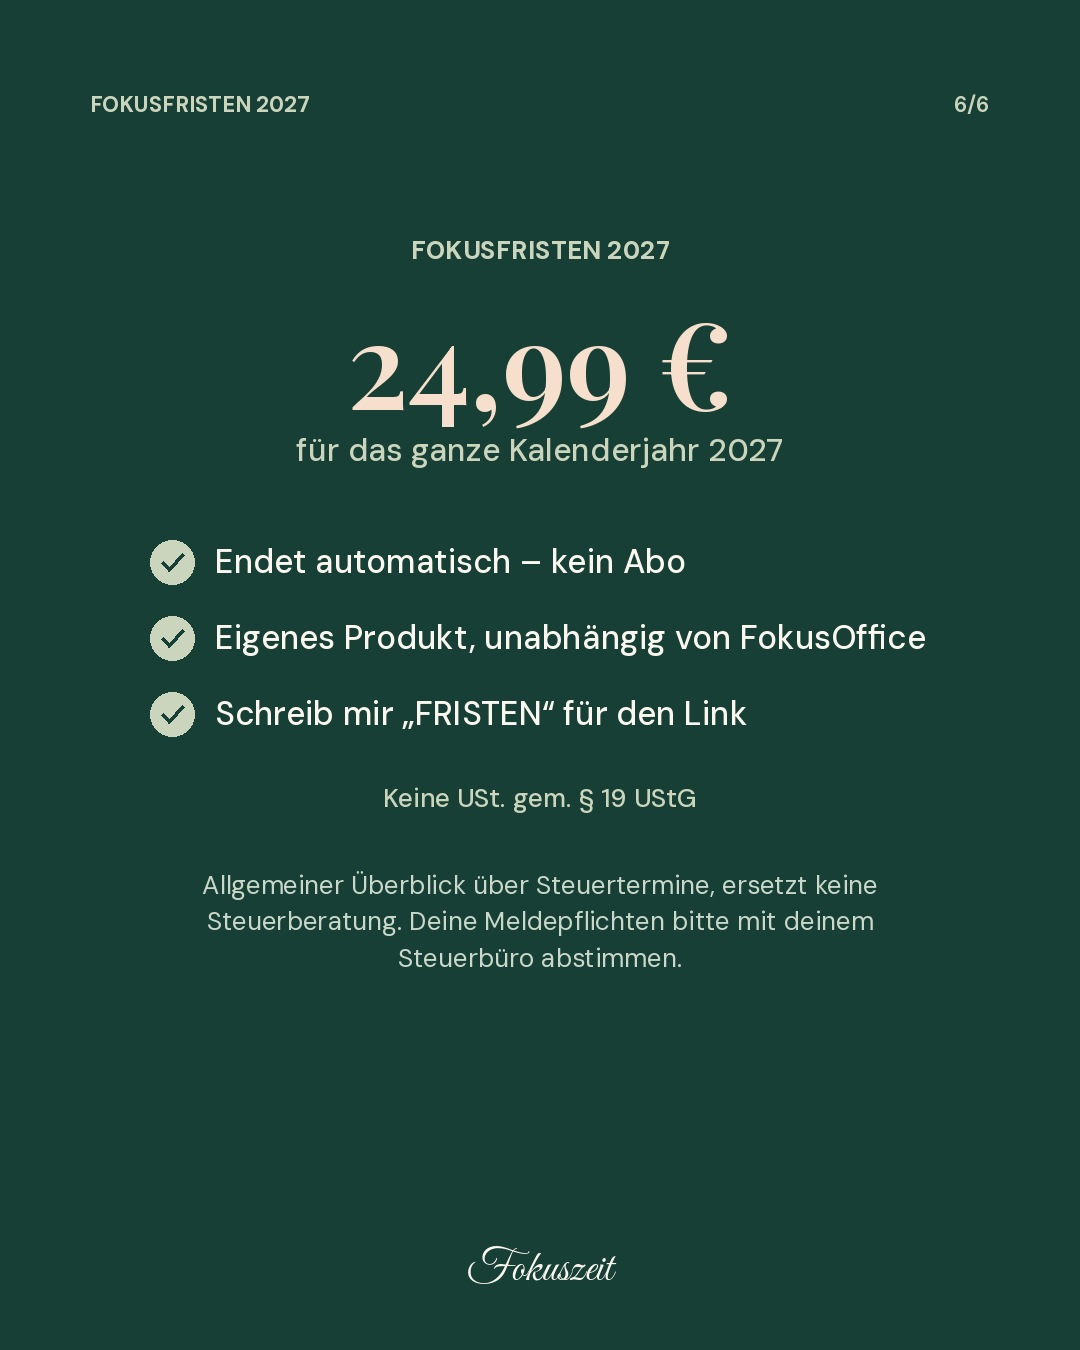
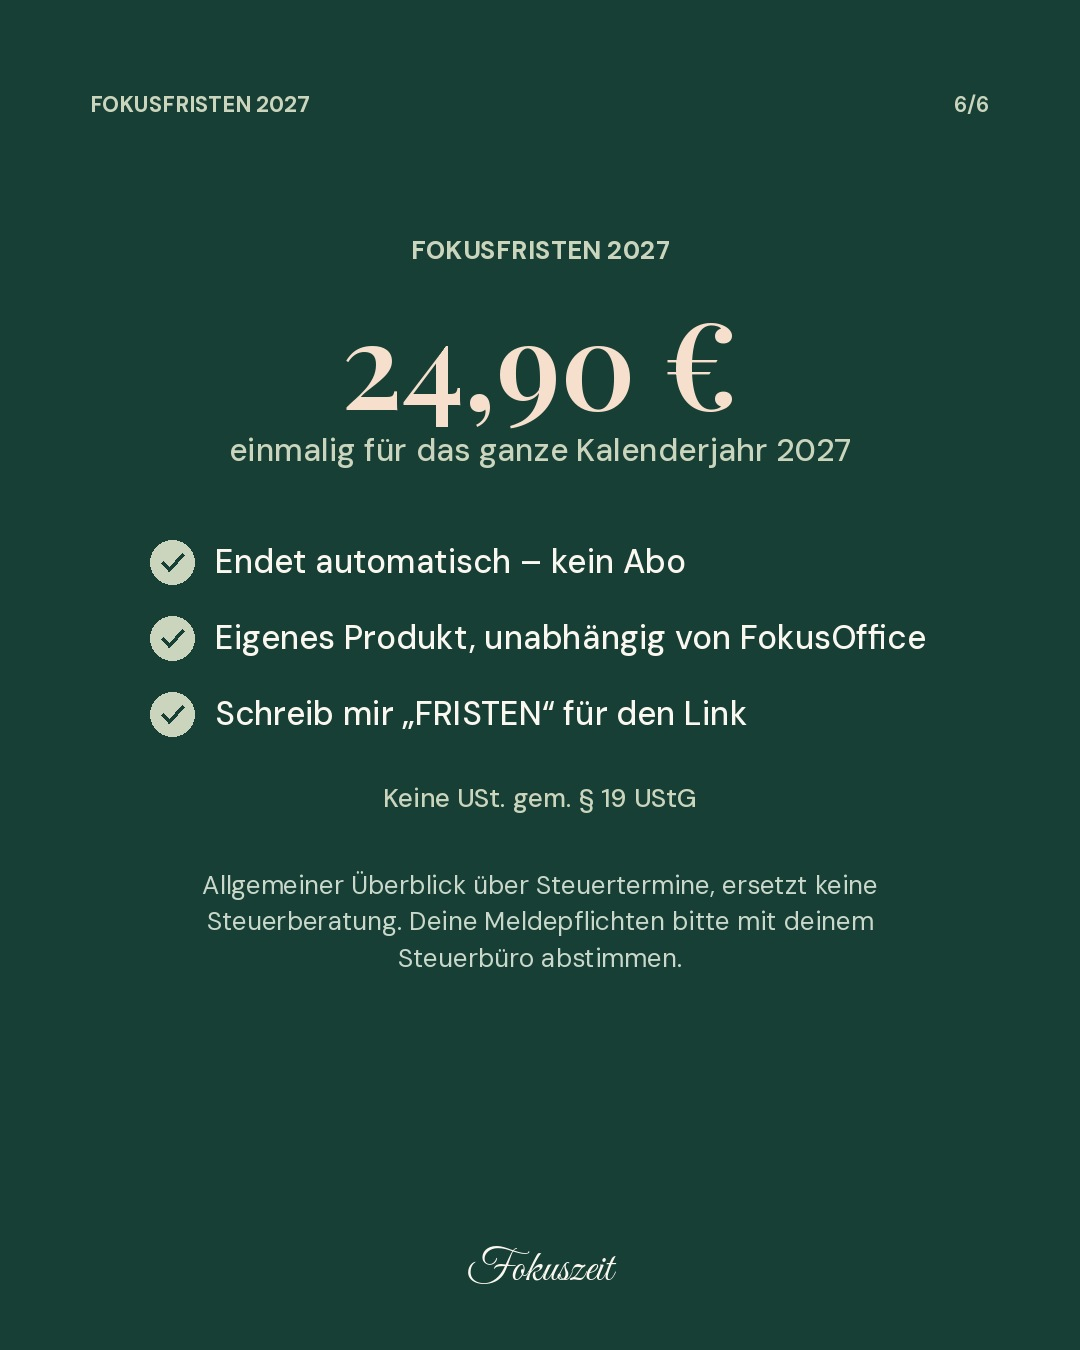
Nebenprodukte: Preise und Links laut Website angepasst
Claude-Session: https://claude.ai/code/session_01NA1kJx4sZCFfTM8CresH3w

Changed region(s): [[0.2139, 0.2489, 0.7944, 0.3422], [0.6417, 0.2178, 0.6722, 0.2489]]

diff --git a/wissen/nebenprodukte.md b/wissen/nebenprodukte.md
@@ -16,7 +16,8 @@ Hauptfokus bleibt FokusOffice. Nebenprodukte nur gelegentlich bewerben (je ca. 1
 - NICHT bewerben: Preis, Push-Nachrichten, Live-Synchronisierung, Anmeldung/Cloud (fehlen noch)
 
 ## Preise und Status (Lara 9.11.: fertig, bewerben)
-- FokusFristen: 24,99 € jährlich, endet zum Ende Kalenderjahr 2027, kein Abo. Eigenes Produkt, KEIN Teil von FokusOffice. https://fristen.fokuszeit-business.de/  DM-Stichwort FRISTEN
-- FokusHeim: 19,99 € jährlich (endet automatisch nach 1 Jahr) oder 2,99 € monatlich (läuft weiter). https://heim.fokuszeit-business.de/  DM-Stichwort HEIM
+- FokusFristen: 24,90 € einmalig für Kalenderjahr 2027 (Website-Stand 9.11., vorher 24,99 genannt), kein Abo. Eigenes Produkt, KEIN Teil von FokusOffice. https://www.fokuszeit-business.de/fokusfristen.html (App: fristen.fokuszeit-business.de)  DM-Stichwort FRISTEN
+- FokusHeim: 19,90 € jährlich (endet automatisch nach 1 Jahr) oder 2,49 € monatlich, monatlich kündbar (Website-Stand 9.11.). https://www.fokuszeit-business.de/fokusheim.html (App: heim.fokuszeit-business.de)  DM-Stichwort HEIM
 - Immer "keine USt. gem. § 19 UStG"
 - Geplant: FokusFristen IG/FB 14.11. 11:00, LinkedIn 16.11.; FokusHeim IG/FB 28.11. 11:00 (persönlich, mit Laras Foto)
+- Übersicht Produkte: https://www.fokuszeit-business.de/produkte.html (FokusOffice NICHT im Produkte-Menü)

diff --git a/linkedin/geplant/2026-11-16_08-00.md b/linkedin/geplant/2026-11-16_08-00.md
@@ -7,9 +7,9 @@ Umsatzsteuer-Voranmeldung, Lohnsteuer, Gewerbesteuer, Vorauszahlungen: Wer selbs
 ✅ Fristenliste zum Abhaken, zum Drucken mit Abhakkästchen oder als CSV
 🔔 Erinnerungen 14, 7 und 3 Tage vorher, direkt im eigenen Kalender
 
-24,99 € für das ganze Kalenderjahr 2027 (keine USt. gem. § 19 UStG). Endet automatisch, kein Abo. FokusFristen ist ein eigenes Produkt, unabhängig von FokusOffice.
+24,90 € einmalig für das ganze Kalenderjahr 2027 (keine USt. gem. § 19 UStG). Endet automatisch, kein Abo. FokusFristen ist ein eigenes Produkt, unabhängig von FokusOffice.
 
-👉 FokusFristen ansehen: https://fristen.fokuszeit-business.de/
+👉 FokusFristen ansehen: https://www.fokuszeit-business.de/fokusfristen.html?utm_source=linkedin&utm_campaign=fokusfristen
 
 Allgemeiner Überblick über Steuertermine, ersetzt keine Steuerberatung.
 
